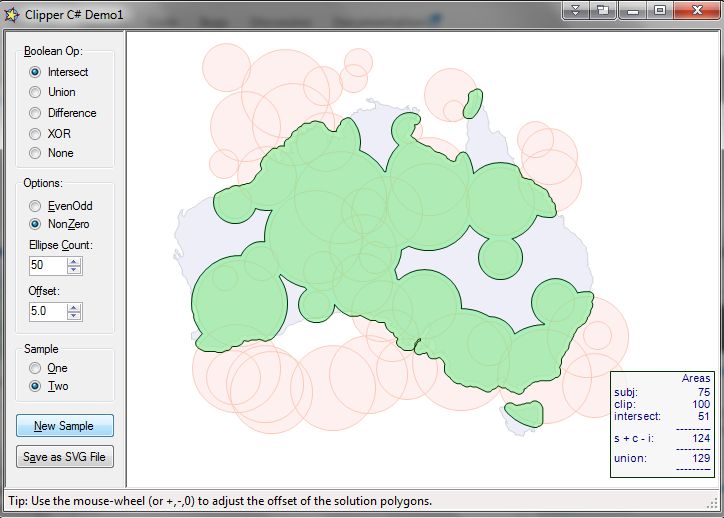
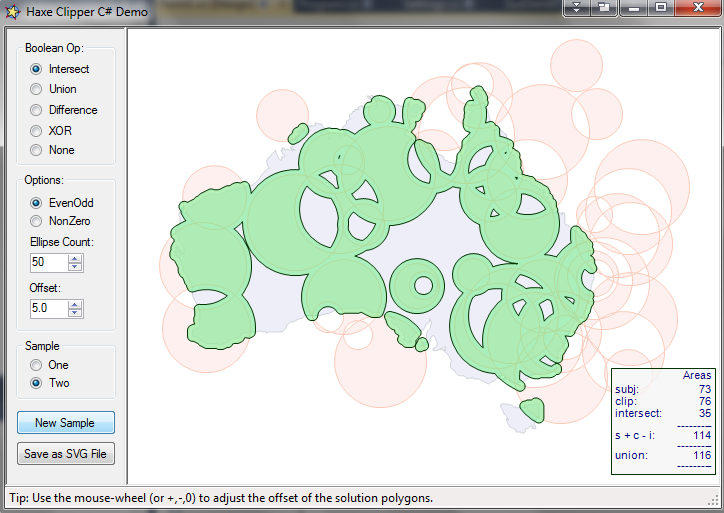
Change title to demo window

diff --git a/GuiDemo/Form1.Designer.cs b/GuiDemo/Form1.Designer.cs
@@ -365,7 +365,7 @@
             this.KeyPreview = true;
             this.Name = "Form1";
             this.StartPosition = System.Windows.Forms.FormStartPosition.CenterScreen;
-            this.Text = "Clipper C# Demo1";
+            this.Text = "Haxe Clipper C# Demo";
             this.Load += new System.EventHandler(this.Form1_Load);
             this.KeyDown += new System.Windows.Forms.KeyEventHandler(this.Form1_KeyDown);
             this.Resize += new System.EventHandler(this.Form1_Resize);
